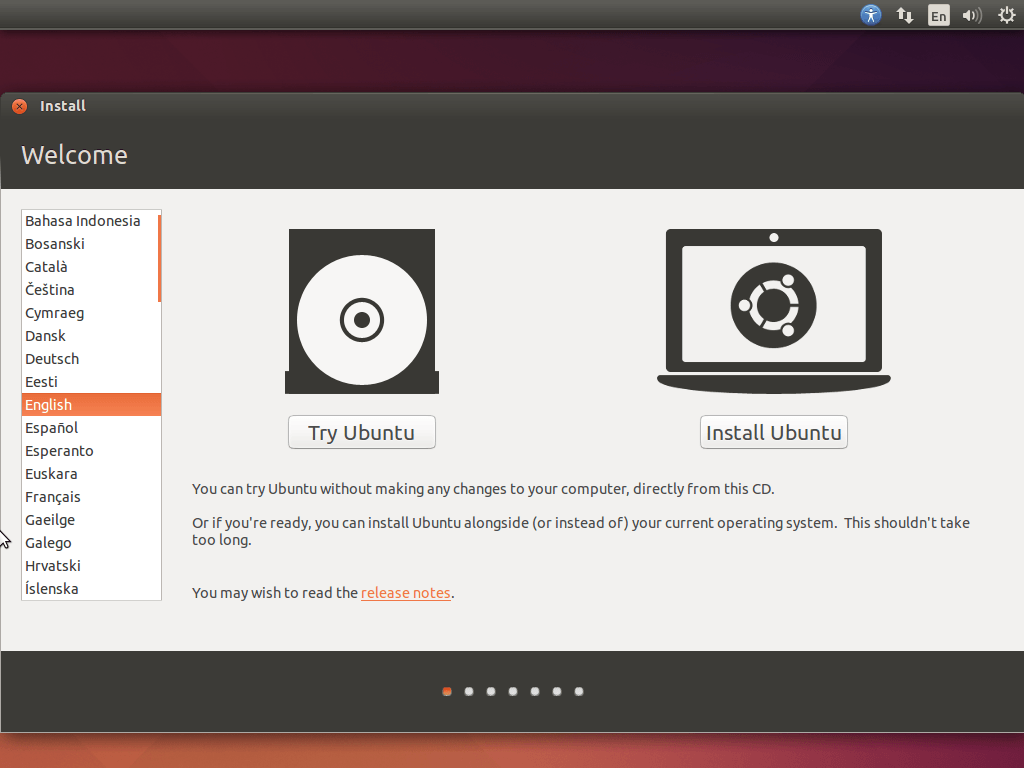
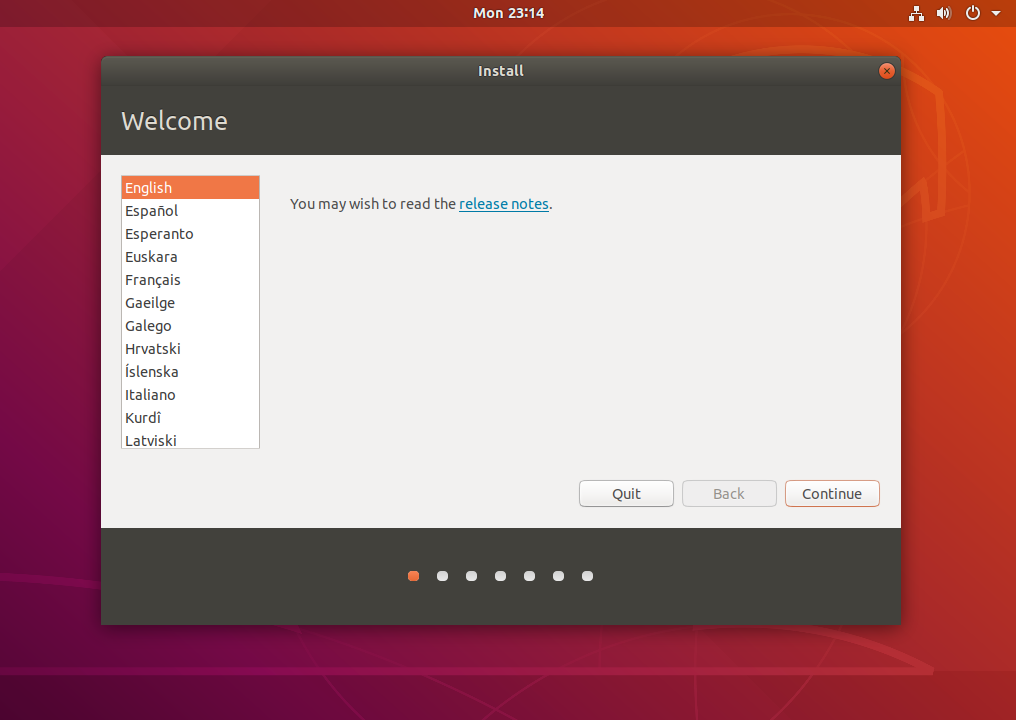
Update eustasy.org links, install-bionic images and order

diff --git a/broadcast/how-to-install-ubuntu-18-04-bionic-beaver.php b/broadcast/how-to-install-ubuntu-18-04-bionic-beaver.php
@@ -94,7 +94,7 @@ if ($Request['path'] === $Place['path'].$Canonical) {
 			data-ad-client="ca-pub-9775669566179340"
 			data-ad-slot="9786999318"></ins>
 		<script>(adsbygoogle = window.adsbygoogle || []).push({});</script>
-		<p class="about-ads">Advertisement <a href="http://eustasy.org/advertisements">Why are there ads?</a></p>
+		<p class="about-ads">Advertisement <a href="https://eustasy.org/advertisements">Why are there ads?</a></p>
 	</div>
 	<br>
 	<div class="section group">
@@ -108,38 +108,49 @@ if ($Request['path'] === $Place['path'].$Canonical) {
 	</div>
 	<div class="section group">
 		<div class="col span_5_of_11">
-			<h4>1. Click Install</h4>
+			<h4>1. Click Continue</h4>
 			<p>Once Ubuntu has booted, you will be presented with a screen that looks like this.</p>
-			<p>Click <span class="box">Install Ubuntu</span> to install. You can open the installer again later if you choose to try it out, but remember it will be far slower running from a Disc/USB than had you installed it, and nothing you do will actually be saved.</p>
+			<p>Click <span class="box">Continue</span> to begin the installer. You can open the installer again later if you choose to try it out, but remember it will be far slower running from a Disc/USB than had you installed it, and nothing you do will actually be saved.</p>
 		</div>
 		<div class="col span_1_of_11"><br></div>
 		<div class="col span_5_of_11">
-			<a href="assets/images/how-to-install-ubuntu-18-04-bionic-beaver/1-Welcome.png" class="colorbox rounded" rel="install" title="Click Install"><img src="assets/images/how-to-install-ubuntu-18-04-bionic-beaver/1-Welcome.png" alt="Click Install" title="Click Install"></a>
+			<a href="assets/images/how-to-install-ubuntu-18-04-bionic-beaver/1-Welcome.png" class="colorbox rounded" rel="install" title="Click Continue"><img src="assets/images/how-to-install-ubuntu-18-04-bionic-beaver/1-Welcome.png" alt="Click Install" title="Click Continue"></a>
 		</div>
 	</div>
 	<br>
 	<div class="section group">
 		<div class="col span_5_of_11 floatright">
-			<h4>2. Check both Boxes</h4>
-			<p>We recommend checking both boxes, but if you don't want to install all updates while installing, or don't want to play MP3 files (music), then you can leave the relevant box(es) unchecked.</p>
-			<p>If you don't have at least 4.5GB of available drive space, then you can't continue. If you're not plugged in, then plug in before continuing. If you're not connected to the internet, then you'll be prompted to connect when you click continue. You can do it now using the icon to the left of the sound menu to connect. Mine shows two arrows, as I'm plugged in, disconnected it looks different, and a little change again if using WiFi. You can continue without connecting, but you won't be able to get updates, or any language packs you may require.</p>
+			<h4>2. Choose your Keyboard Layout</h4>
+			<p>This is probably the most technical step in the installation, made a lot simpler by the <span class="box">Detect Keyboard Layout</span>. Just click that and follow the instructions on screen.</p>
 		</div>
 		<div class="col span_1_of_11 floatright"><br></div>
 		<div class="col span_5_of_11">
-			<a href="assets/images/how-to-install-ubuntu-18-04-bionic-beaver/2-Check.png" class="colorbox rounded" rel="install" title="Check both Boxes"><img src="assets/images/how-to-install-ubuntu-18-04-bionic-beaver/2-Check.png" alt="Check both Boxes" title="Check both Boxes"></a>
+			<a href="assets/images/how-to-install-ubuntu-18-04-bionic-beaver/2-KeyboardLayout.png" class="colorbox rounded" rel="install" title="Choose your Keyboard Layout"><img src="assets/images/how-to-install-ubuntu-18-04-bionic-beaver/2-KeyboardLayout.png" alt="Choose your Keyboard Layout" title="Choose your Keyboard Layout"></a>
+		</div>
+	</div>
+	<br>
+	<div class="section group">
+		<div class="col span_5_of_11 floatright">
+			<h4>3. Check both Boxes</h4>
+			<p>We recommend checking both boxes, but if you don't want to install all updates while installing, or don't want to play MP3 files (music), then you can leave the relevant box(es) unchecked.</p>
+			<p>If you don't have at least 8 GB of available drive space, then try the minimal installation option. If you're not plugged in, then plug in before continuing. If you're not connected to the internet, then you'll be prompted to connect when you click continue. You can do it now using the icon to the left of the sound menu to connect. Mine shows two arrows, as I'm plugged in, disconnected it looks different, and a little change again if using WiFi. You can continue without connecting, but you won't be able to get updates, or any language packs you may require.</p>
+		</div>
+		<div class="col span_1_of_11 floatright"><br></div>
+		<div class="col span_5_of_11">
+			<a href="assets/images/how-to-install-ubuntu-18-04-bionic-beaver/3-UpdatesAndOtherSoftware.png" class="colorbox rounded" rel="install" title="Check both Boxes"><img src="assets/images/how-to-install-ubuntu-18-04-bionic-beaver/3-UpdatesAndOtherSoftware.png" alt="Check both Boxes" title="Check both Boxes"></a>
 		</div>
 	</div>
 	<br>
 	<div class="section group">
 		<div class="col span_5_of_11">
-			<h4>3. Choose How to Install</h4>
+			<h4>4. Choose How to Install</h4>
 			<p>Yours will probably look a little different to mine here. My hard drive doesn't have anything on it yet, so i can choose either to use the whole disk, or specify partitions manually (surprisingly easy stuff). Yours may have a slightly different first option, and one or two extra.</p>
 			<p>It may say <span class="box">Delete Windows and Install Ubuntu</span> and <span class="box">Shrink Windows and Install Ubuntu Alongside</span>.</p>
 			<p>Choosing to install alongside will mean you are presented with a menu with the option to choose which operating system with the arrow keys and enter every time you turn on your computer.</p>
 		</div>
 		<div class="col span_1_of_11"><br></div>
 		<div class="col span_5_of_11">
-			<a href="assets/images/how-to-install-ubuntu-18-04-bionic-beaver/3-Choose.png" class="colorbox rounded" rel="install" title="Choose How to Install"><img src="assets/images/how-to-install-ubuntu-18-04-bionic-beaver/3-Choose.png" alt="Choose How to Install" title="Choose How to Install"></a>
+			<a href="assets/images/how-to-install-ubuntu-18-04-bionic-beaver/4-InstallationType.png" class="colorbox rounded" rel="install" title="Choose How to Install"><img src="assets/images/how-to-install-ubuntu-18-04-bionic-beaver/4-InstallationType.png" alt="Choose How to Install" title="Choose How to Install"></a>
 		</div>
 	</div>
 	<br>
@@ -168,40 +179,40 @@ if ($Request['path'] === $Place['path'].$Canonical) {
 		<script>
 		(adsbygoogle = window.adsbygoogle || []).push({});
 		</script>
-		<p class="about-ads">Advertisement <a href="http://eustasy.org/advertisements">Why are there ads?</a></p>
+		<p class="about-ads">Advertisement <a href="https://eustasy.org/advertisements">Why are there ads?</a></p>
 	</div>
 	<div class="section group">
 		<div class="col span_5_of_11 floatright">
-			<h4>4. Confirm your Choice</h4>
+			<h4>5. Choose a Security Key</h4>
+			<p>If you have opted for an encrypted installation, you will be asked to choose a security key. This is not a password for your user account, but a password to turn on the entire computer using Ubuntu.</p>
+		</div>
+		<div class="col span_1_of_11 floatright"><br></div>
+		<div class="col span_5_of_11">
+			<a href="assets/images/how-to-install-ubuntu-18-04-bionic-beaver/5-ChooseASecurityKey.png" class="colorbox rounded" rel="install" title="Choose a Security Key"><img src="assets/images/how-to-install-ubuntu-18-04-bionic-beaver/5-ChooseASecurityKey.png" alt="Choose a Security Key" title="Choose a Security Key"></a>
+		</div>
+	</div>
+	<br>
+	<div class="section group">
+		<div class="col span_5_of_11 floatright">
+			<h4>6. Confirm your Choice</h4>
 			<p>After clicking continue, you may be presented with a confirmation screen, much like this, to confirm your choices.</p>
-			<p>Click <span class="box">Install Now</span> to begin installing.</p>
+			<p>Click <span class="box">Continue</span> to begin installing.</p>
 			<p>You'll be asked a few more questions in a second about where you are, what your name is, and how you want your computer set up. These are for time settings, user names, and home folders.</p>
 		</div>
 		<div class="col span_1_of_11 floatright"><br></div>
 		<div class="col span_5_of_11">
-			<a href="assets/images/how-to-install-ubuntu-18-04-bionic-beaver/4-Confirm.png" class="colorbox rounded" rel="install" title="Confirm your Choice"><img src="assets/images/how-to-install-ubuntu-18-04-bionic-beaver/4-Confirm.png" alt="Confirm your Choice" title="Confirm your Choice"></a>
+			<a href="assets/images/how-to-install-ubuntu-18-04-bionic-beaver/6-WriteChangesToDisk.png" class="colorbox rounded" rel="install" title="Confirm your Choice"><img src="assets/images/how-to-install-ubuntu-18-04-bionic-beaver/6-WriteChangesToDisk.png" alt="Confirm your Choice" title="Confirm your Choice"></a>
 		</div>
 	</div>
 	<br>
 	<div class="section group">
 		<div class="col span_5_of_11">
-			<h4>5. Choose your Location</h4>
+			<h4>7. Choose your Location</h4>
 			<p>Now you get to choose your location by dropping a pin on this nifty looking map. This is to select your timezone and apply any regional adjustments.</p>
 		</div>
 		<div class="col span_1_of_11"><br></div>
 		<div class="col span_5_of_11">
-			<a href="assets/images/how-to-install-ubuntu-18-04-bionic-beaver/5-Where.png" class="colorbox rounded" rel="install" title="Choose your Location"><img src="assets/images/how-to-install-ubuntu-18-04-bionic-beaver/5-Where.png" alt="Choose your Location" title="Choose your Location"></a>
-		</div>
-	</div>
-	<br>
-	<div class="section group">
-		<div class="col span_5_of_11 floatright">
-			<h4>6. Choose your Keyboard Layout</h4>
-			<p>This is probably the most technical step in the installation, made a lot simpler by the <span class="box">Detect Keyboard Layout</span>. Just click that and follow the instructions on screen.</p>
-		</div>
-		<div class="col span_1_of_11 floatright"><br></div>
-		<div class="col span_5_of_11">
-			<a href="assets/images/how-to-install-ubuntu-18-04-bionic-beaver/6-How.png" class="colorbox rounded" rel="install" title="Choose your Keyboard Layout"><img src="assets/images/how-to-install-ubuntu-18-04-bionic-beaver/6-How.png" alt="Choose your Keyboard Layout" title="Choose your Keyboard Layout"></a>
+			<a href="assets/images/how-to-install-ubuntu-18-04-bionic-beaver/7-WhereAreYou.png" class="colorbox rounded" rel="install" title="Choose your Location"><img src="assets/images/how-to-install-ubuntu-18-04-bionic-beaver/7-WhereAreYou.png" alt="Choose your Location" title="Choose your Location"></a>
 		</div>
 	</div>
 	<br>
@@ -213,22 +224,23 @@ if ($Request['path'] === $Place['path'].$Canonical) {
 		</div>
 		<div class="col span_1_of_11"><br></div>
 		<div class="col span_5_of_11">
-			<a href="assets/images/how-to-install-ubuntu-18-04-bionic-beaver/7-Who.png" class="colorbox rounded" rel="install" title="Set a Username and Password"><img src="assets/images/how-to-install-ubuntu-18-04-bionic-beaver/7-Who.png" alt="Set a Username and Password" title="Set a Username and Password"></a>
+			<a href="assets/images/how-to-install-ubuntu-18-04-bionic-beaver/8-WhoAreYou.png" class="colorbox rounded" rel="install" title="Set a Username and Password"><img src="assets/images/how-to-install-ubuntu-18-04-bionic-beaver/8-WhoAreYou.png" alt="Set a Username and Password" title="Set a Username and Password"></a>
 		</div>
 	</div>
 	<br>
 	<div class="section group">
 		<div class="col span_5_of_11 floatright">
-			<h4>8. Sit Back and Relax</h4>
+			<h4>9. Sit Back and Relax</h4>
 			<p>Sit back and enjoy a little slideshow about Ubuntu, all the free, full-version software you've got, and just how great it is to have installed Ubuntu 18.04 Bionic Beaver LTS.</p>
 			<p>You can rest easy in the knowledge that your computer is faster, safer, and simpler to use, now it's running a free open-source system.</p>
-			<p>Check out <a href="http://askubuntu.com/">askubuntu.com</a> if you need any further help.</p>
+			<p>Check out <a href="https://askubuntu.com/">askubuntu.com</a> if you need any further help.</p>
 		</div>
 		<div class="col span_1_of_11 floatright"><br></div>
 		<div class="col span_5_of_11">
-			<a href="assets/images/how-to-install-ubuntu-18-04-bionic-beaver/8-Welcome-to-Ubuntu-18.04-Bionic-Beaver-LTS.png" class="colorbox rounded" rel="install" title="Sit Back and Relax"><img src="assets/images/how-to-install-ubuntu-18-04-bionic-beaver/8-Welcome-to-Ubuntu-18.04-Bionic-Beaver-LTS.png" alt="Sit Back and Relax" title="Sit Back and Relax"></a>
+			<a href="assets/images/how-to-install-ubuntu-18-04-bionic-beaver/9-WelcomeToUbuntu.png" class="colorbox rounded" rel="install" title="Sit Back and Relax"><img src="assets/images/how-to-install-ubuntu-18-04-bionic-beaver/9-WelcomeToUbuntu.png" alt="Sit Back and Relax" title="Sit Back and Relax"></a>
 		</div>
 	</div>
+	<!-- TODO Add items about RestartNow, UnlockDisk, Password, and Desktop -->
 	<br>
 	<h3>Welcome to Ubuntu 18.04 Bionic Beaver LTS!</h3>
 	<div class="section group">

diff --git a/footer.php b/footer.php
@@ -66,7 +66,7 @@
 			<script>
 			(adsbygoogle = window.adsbygoogle || []).push({});
 			</script>
-			<p class="about-ads">Advertisement <a href="http://eustasy.org/advertisements">Why are there ads?</a></p>
+			<p class="about-ads">Advertisement <a href="https://eustasy.org/advertisements">Why are there ads?</a></p>
 		</div>
 		<div class="clear"></div>
 	</div>
@@ -74,16 +74,16 @@
 	<footer class="group">
 
 		<div class="col span_2_of_12">
-			<a href="http://eustasy.org/" title="eustasy organisation"><img src="http://eustasy.org/images/eustasy-dark.png" class="eustasy"></a>
+			<a href="https://eustasy.org/" title="eustasy organisation"><img src="https://eustasy.org/images/eustasy-dark.png" class="eustasy"></a>
 		</div>
 
 		<div class="col span_1_of_12"><br></div>
 
 		<div class="col span_3_of_12">
-			<p class="nomargin textcenter"><a rel="license"  href="http://eustasy.org/licenses#cc">Creative Commons</a></p>
-			<p class="nomargin textcenter"><a rel="license"  href="http://eustasy.org/licenses#by">Attribution</a></p>
-			<p class="nomargin textcenter"><a rel="license"  href="http://eustasy.org/licenses#nc">Non-Commercial</a></p>
-			<p class="nomargin textcenter"><a rel="license"  href="http://eustasy.org/licenses#sa">Share-Alike</a></p>
+			<p class="nomargin textcenter"><a rel="license"  href="https://eustasy.org/licenses#cc">Creative Commons</a></p>
+			<p class="nomargin textcenter"><a rel="license"  href="https://eustasy.org/licenses#by">Attribution</a></p>
+			<p class="nomargin textcenter"><a rel="license"  href="https://eustasy.org/licenses#nc">Non-Commercial</a></p>
+			<p class="nomargin textcenter"><a rel="license"  href="https://eustasy.org/licenses#sa">Share-Alike</a></p>
 		</div>
 
 		<div class="col span_1_of_12"><br></div>
@@ -97,11 +97,11 @@
 		<div class="col span_1_of_12"><br></div>
 
 		<div class="col span_2_of_12">
-			<p class="nomargin"><a href="http://eustasy.org/legal/website-disclaimer" title="Website Disclaimer">disclaimer</a></p>
-			<p class="nomargin"><a href="http://eustasy.org/legal/copyright-notice" title="Copyright Notice">copyright</a></p>
-			<p class="nomargin"><a href="http://eustasy.org/legal/cookie-policy" title="Cookie Policy">cookies</a></p>
-			<p class="nomargin"><a href="http://eustasy.org/legal/privacy-policy" title="Privacy Policy">privacy</a></p>
-			<p class="nomargin"><a href="http://eustasy.org/legal/terms-of-service" title="Terms Of Service">terms</a></p>
+			<p class="nomargin"><a href="https://eustasy.org/legal/website-disclaimer" title="Website Disclaimer">disclaimer</a></p>
+			<p class="nomargin"><a href="https://eustasy.org/legal/copyright-notice" title="Copyright Notice">copyright</a></p>
+			<p class="nomargin"><a href="https://eustasy.org/legal/cookie-policy" title="Cookie Policy">cookies</a></p>
+			<p class="nomargin"><a href="https://eustasy.org/legal/privacy-policy" title="Privacy Policy">privacy</a></p>
+			<p class="nomargin"><a href="https://eustasy.org/legal/terms-of-service" title="Terms Of Service">terms</a></p>
 		</div>
 
 		<div class="clear"></div>

diff --git a/broadcast/how-to-install-ubuntu-14-04-trusty-tahr.php b/broadcast/how-to-install-ubuntu-14-04-trusty-tahr.php
@@ -97,7 +97,7 @@ if ($Request['path'] === $Place['path'].$Canonical) {
 			data-ad-client="ca-pub-9775669566179340"
 			data-ad-slot="9786999314"></ins>
 		<script>(adsbygoogle = window.adsbygoogle || []).push({});</script>
-		<p class="about-ads">Advertisement <a href="http://eustasy.org/advertisements">Why are there ads?</a></p>
+		<p class="about-ads">Advertisement <a href="https://eustasy.org/advertisements">Why are there ads?</a></p>
 	</div>
 	<br>
 	<div class="section group">
@@ -171,7 +171,7 @@ if ($Request['path'] === $Place['path'].$Canonical) {
 		<script>
 		(adsbygoogle = window.adsbygoogle || []).push({});
 		</script>
-		<p class="about-ads">Advertisement <a href="http://eustasy.org/advertisements">Why are there ads?</a></p>
+		<p class="about-ads">Advertisement <a href="https://eustasy.org/advertisements">Why are there ads?</a></p>
 	</div>
 	<div class="section group">
 		<div class="col span_5_of_11 floatright">

diff --git a/broadcast/how-to-install-ubuntu-14-10-utopic-unicorn.php b/broadcast/how-to-install-ubuntu-14-10-utopic-unicorn.php
@@ -97,7 +97,7 @@ if ($Request['path'] === $Place['path'].$Canonical) {
 			data-ad-client="ca-pub-9775669566179340"
 			data-ad-slot="9786999314"></ins>
 		<script>(adsbygoogle = window.adsbygoogle || []).push({});</script>
-		<p class="about-ads">Advertisement <a href="http://eustasy.org/advertisements">Why are there ads?</a></p>
+		<p class="about-ads">Advertisement <a href="https://eustasy.org/advertisements">Why are there ads?</a></p>
 	</div>
 	<br>
 	<div class="section group">
@@ -171,7 +171,7 @@ if ($Request['path'] === $Place['path'].$Canonical) {
 		<script>
 		(adsbygoogle = window.adsbygoogle || []).push({});
 		</script>
-		<p class="about-ads">Advertisement <a href="http://eustasy.org/advertisements">Why are there ads?</a></p>
+		<p class="about-ads">Advertisement <a href="https://eustasy.org/advertisements">Why are there ads?</a></p>
 	</div>
 	<div class="section group">
 		<div class="col span_5_of_11 floatright">

diff --git a/broadcast/things-to-do-after-installing-ubuntu-14-04-trusty-tahr.php b/broadcast/things-to-do-after-installing-ubuntu-14-04-trusty-tahr.php
@@ -183,7 +183,7 @@ wget -O - http://download.videolan.org/pub/debian/videolan-apt.asc|sudo apt-key 
 			data-ad-client="ca-pub-9775669566179340"
 			data-ad-slot="9786999314"></ins>
 		<script>(adsbygoogle = window.adsbygoogle || []).push({});</script>
-		<p class="about-ads">Advertisement <a href="http://eustasy.org/advertisements">Why are there ads?</a></p>
+		<p class="about-ads">Advertisement <a href="https://eustasy.org/advertisements">Why are there ads?</a></p>
 	</div>
 	<br>
 	<div class="section group">

diff --git a/broadcast/things-to-do-after-installing-ubuntu-14-10-utopic-unicorn.php b/broadcast/things-to-do-after-installing-ubuntu-14-10-utopic-unicorn.php
@@ -186,7 +186,7 @@ wget -O - http://download.videolan.org/pub/debian/videolan-apt.asc|sudo apt-key 
 			data-ad-client="ca-pub-9775669566179340"
 			data-ad-slot="9786999314"></ins>
 		<script>(adsbygoogle = window.adsbygoogle || []).push({});</script>
-		<p class="about-ads">Advertisement <a href="http://eustasy.org/advertisements">Why are there ads?</a></p>
+		<p class="about-ads">Advertisement <a href="https://eustasy.org/advertisements">Why are there ads?</a></p>
 	</div>
 	<br>
 	<div class="section group">

diff --git a/broadcast/things-to-do-after-installing-ubuntu-18-04-bionic-beaver.php b/broadcast/things-to-do-after-installing-ubuntu-18-04-bionic-beaver.php
@@ -182,7 +182,7 @@ wget -O - http://download.videolan.org/pub/debian/videolan-apt.asc|sudo apt-key 
 			data-ad-client="ca-pub-9775669566179340"
 			data-ad-slot="9786999318"></ins>
 		<script>(adsbygoogle = window.adsbygoogle || []).push({});</script>
-		<p class="about-ads">Advertisement <a href="http://eustasy.org/advertisements">Why are there ads?</a></p>
+		<p class="about-ads">Advertisement <a href="https://eustasy.org/advertisements">Why are there ads?</a></p>
 	</div>
 	<br>
 	<div class="section group">

diff --git a/header.php b/header.php
@@ -111,5 +111,5 @@
 			<script>
 			(adsbygoogle = window.adsbygoogle || []).push({});
 			</script>
-			<p class="about-ads">Advertisement <a href="http://eustasy.org/advertisements">Why are there ads?</a></p>
+			<p class="about-ads">Advertisement <a href="https://eustasy.org/advertisements">Why are there ads?</a></p>
 		</div>

diff --git a/LICENSE.md b/LICENSE.md
@@ -8,7 +8,7 @@ Licensing
 
 
 ### Creative Commons Attribution Non-Commercial Share-Alike 3.0 Unported License (CC BY NC SA 3.0)
-- [eustasy Page on Licenses and Licensing](http://eustasy.org/licenses)
+- [eustasy Page on Licenses and Licensing](https://eustasy.org/licenses)
 - [Human-Readable License](http://creativecommons.org/licenses/by-nc-sa/3.0/)
 - [Full Legal Code](http://creativecommons.org/licenses/by-nc-sa/3.0/legalcode)
 
